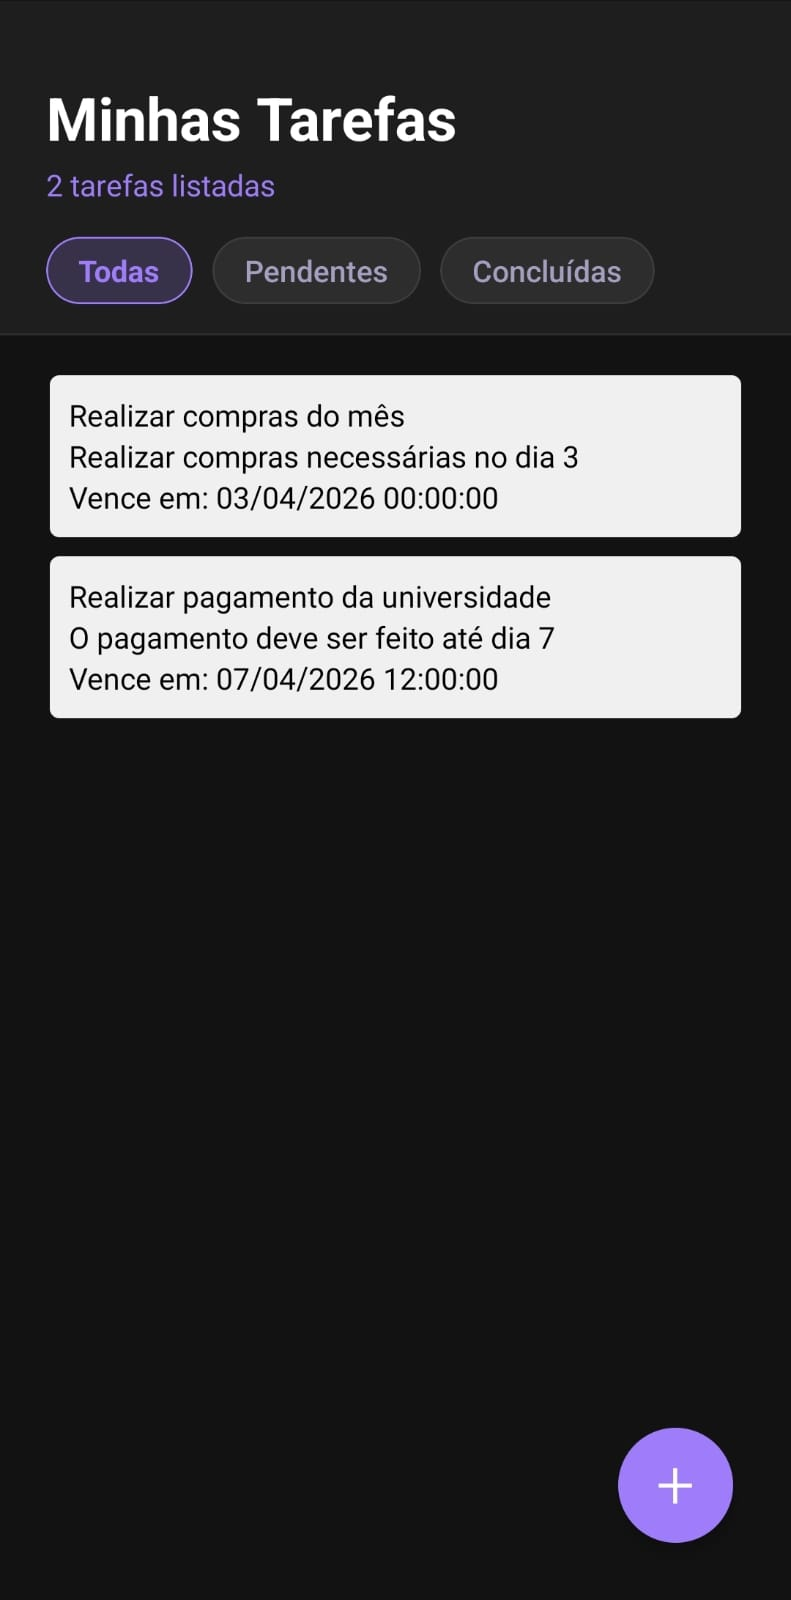
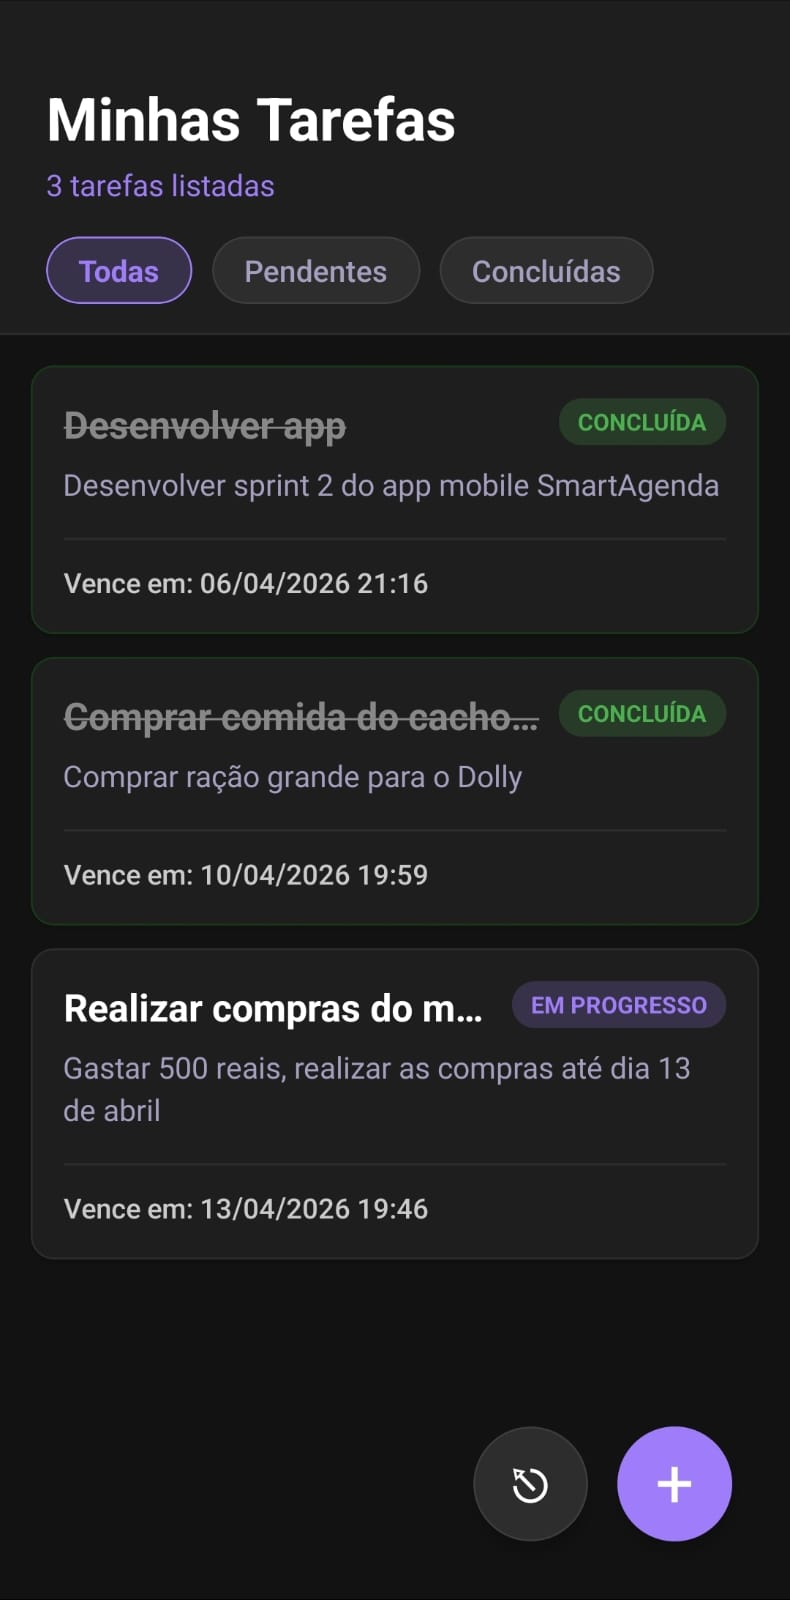
Atualizando Wireframes

diff --git a/docs/4-Projeto-Solucao.md b/docs/4-Projeto-Solucao.md
@@ -52,13 +52,35 @@ Cada Wireframe ou Mockups devem estar associados a pelo menos:
 
 **Descrição:** Página ou Modal que permite a alteração das informações de uma tarefa, a serem salvas no AsyncStorage, depois salvas no dispositivo local, depois salvas como backup no Firebase.
 
+### Tela de Login (RF-01)
+
+**História associada:** Como usuário, eu quero criar uma conta e realizar login no sistema, para que eu possa associar meus dados localmente e sincronizá-los com segurança na nuvem.
+
+<img src="images/Login.jpeg" width="30%">
+
+**Descrição:** Tela de autenticação onde o sistema permite que os usuários realizem cadastro e login informando e-mail e senha. Serve como porta de entrada para a sincronização dos dados locais com o Firebase.
+
+---
+
 ### Tela da Lista de Tarefas (RF-05 e RF-06)
 
 **História associada:** Como usuário, eu quero visualizar a lista das minhas tarefas ordenadas por vencimento e acessar seus detalhes, para que eu não me esqueça do que precisa ser feito primeiro.
 
 <img src="images/Lista de Tarefas.jpeg" width="30%">
 
-**Descrição:** Página que apresenta uma lista das tarefas disponíveis. Elas são ordenadas pela data de vencimento, mas existem também os filtros "Pendentes" e "Concluídas".
+**Descrição:** Página principal que permite aos usuários visualizarem as tarefas registradas em forma de lista, ordenadas pela data de validade mais próxima. Inclui filtros dinâmicos para alternar entre "Pendentes" e "Concluídas".
+
+---
+
+### Tela de Detalhes da Tarefa (RF-03, RF-04 e RF-06)
+
+**Histórias associadas:** 
+- Como usuário, eu quero visualizar a lista das minhas tarefas ordenadas por vencimento e acessar seus detalhes, para que eu não me esqueça do que precisa ser feito primeiro.
+- Como usuário, eu quero poder marcar rapidamente minhas tarefas como concluídas com um menu de confirmação, para que eu tenha a sensação de progresso e limpe minha lista de pendências.
+
+<img src="images/Detalhes da Tarefa.jpeg" width="30%">
+
+**Descrição:** Modal que permite aos usuários selecionarem as tarefas exibindo mais detalhes sobre elas. A partir desta tela, o sistema permite que o usuário navegue para a página de edição da tarefa ou marque a tarefa como completa.
 
 ---
 
